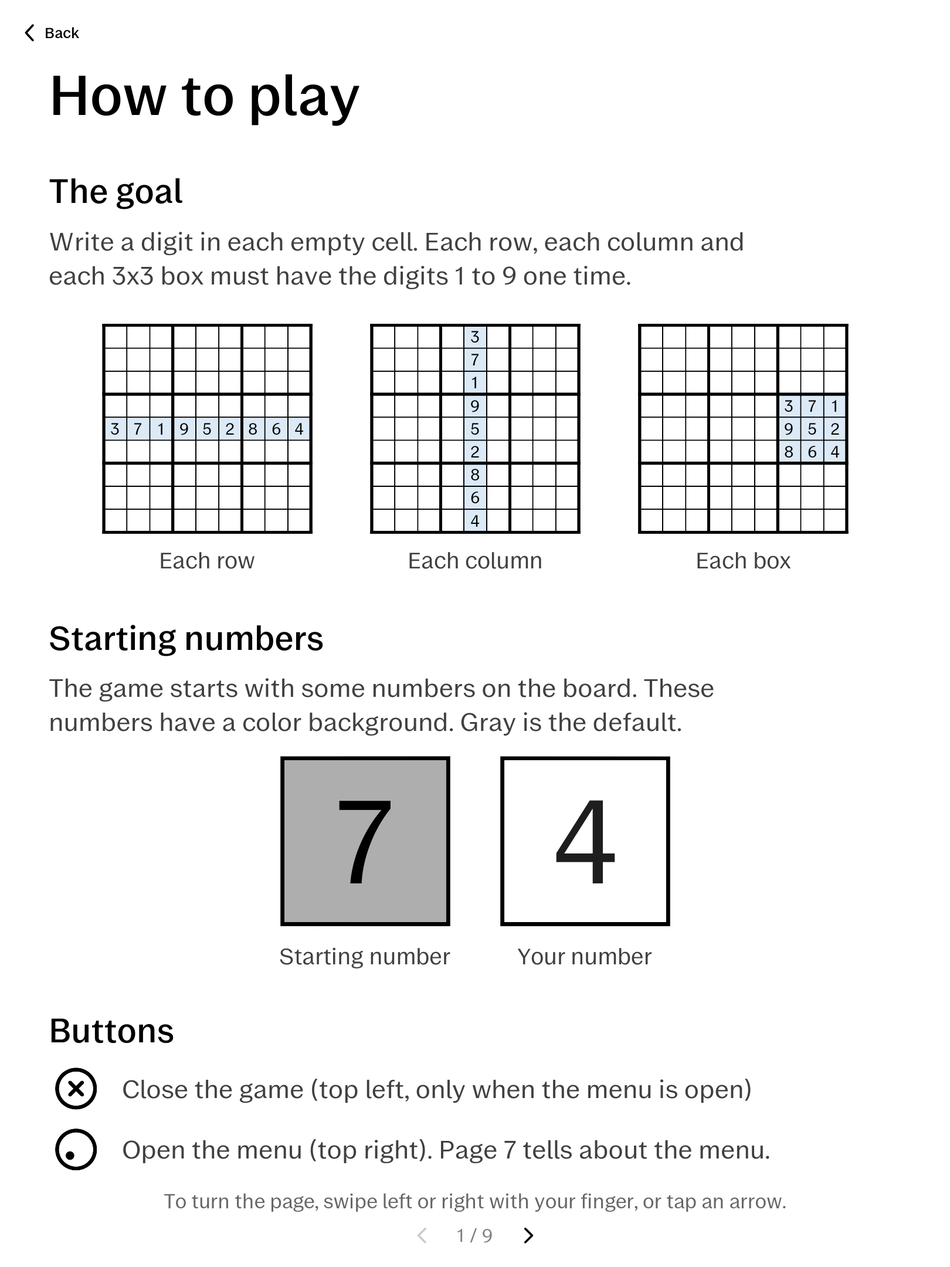
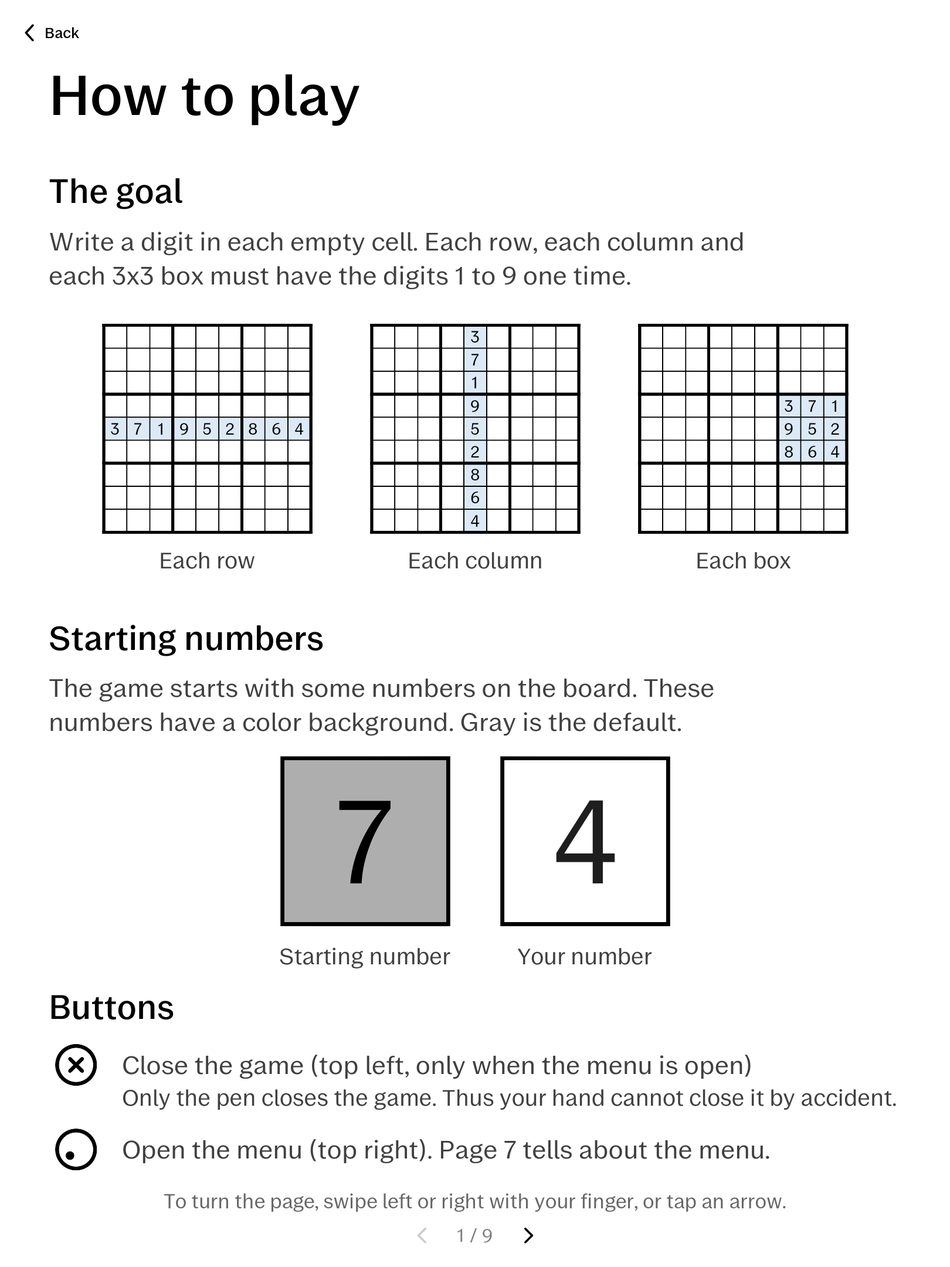
Only allow pen to close the app

Changed region(s): [[0.0309, 0.7755, 0.8025, 0.8995]]

diff --git a/tests/behavior.rs b/tests/behavior.rs
@@ -362,6 +362,9 @@ fn menu_and_panels() {
     assert!(!d.app.quit);
     d.button(Button::Menu);
     d.button(Button::Close);
+    assert!(!d.app.quit, "NAV-6: a finger does not close the app");
+    let (x, y) = button_center(Button::Close);
+    d.pen_tap(x, y);
     assert!(d.app.quit && d.app.game_dirty);
 }
 
@@ -721,8 +724,10 @@ fn a_fast_double_tap_on_back_does_not_close_the_app_or_the_menu() {
                 tap_back(&mut d, pen);
                 if right_handed {
                     assert!(!d.app.quit && d.app.ui.menu == Menu::Closed, "NAV-16: the menu button operates again ({case})");
-                } else {
+                } else if pen {
                     assert!(d.app.quit, "NAV-16: the close button operates again ({case})");
+                } else {
+                    assert!(!d.app.quit, "NAV-6: a finger does not close the app ({case})");
                 }
             }
         }
@@ -754,7 +759,13 @@ fn the_toolbar_ignores_all_buttons_shortly_after_back() {
             assert_eq!((d.app.screen, d.app.ui.menu), (Screen::Game, Menu::Open(None)), "NAV-16 ({case})");
             assert_eq!(board(&d.app.game), board(&game), "NAV-16 ({case})");
             d.wait(50);
-            d.button(b);
+            // Only the pen operates the close button (NAV-6).
+            if b == Button::Close {
+                let (x, y) = button_center(b);
+                d.pen_tap(x, y);
+            } else {
+                d.button(b);
+            }
             let changed = d.app.quit || d.app.screen != Screen::Game || d.app.ui.menu != Menu::Open(None) || board(&d.app.game) != board(&game);
             assert!(changed, "NAV-16: the button operates after the time ({case})");
         }
@@ -1731,7 +1742,7 @@ fn the_release_of_a_control_removes_the_x() {
     // MRK-15, MRK-12: a finger stays on a control while the pen does a refused tap. The release does the
     // action of the control and removes the x. All controls of the toolbar, in all layouts.
     for_each_layout(|case| {
-        for b in [Button::Menu, Button::Colors, Button::Settings, Button::Checkpoints, Button::NewGame, Button::Undo, Button::Redo, Button::Help, Button::Statistics, Button::Close] {
+        for b in [Button::Menu, Button::Colors, Button::Settings, Button::Checkpoints, Button::NewGame, Button::Undo, Button::Redo, Button::Help, Button::Statistics] {
             let case = format!("{case}, control: {b:?}");
             let mut d = Driver::new(121);
             fill_stacks(&mut d);
@@ -1751,9 +1762,50 @@ fn the_release_of_a_control_removes_the_x() {
                 Button::Undo | Button::Redo => board(&d.app.game) != before,
                 Button::Help => d.app.screen == Screen::Manual,
                 Button::Statistics => d.app.screen == Screen::Statistics,
-                Button::Close => d.app.quit,
+                Button::Close => unreachable!("NAV-6: a finger does not operate the close button"),
             };
             assert!(done, "the release does the action of the control ({case})");
+        }
+    });
+}
+
+#[test]
+fn only_the_pen_operates_the_close_button() {
+    // NAV-6, INP-1, INP-15, INP-21, MRK-15: all layouts, with no panel open.
+    for_each_layout(|case| {
+        let mut d = Driver::new(121);
+        fill_stacks(&mut d);
+        let before = control_state(&d);
+
+        // A finger stays on the button while the pen does a refused tap. The release has no action,
+        // thus the x stays.
+        let (x, y) = hold(&mut d, Button::Close);
+        refused_tap(&mut d);
+        d.send(Input::TouchUp { id: 1, x, y });
+        assert_eq!(control_state(&d), before, "NAV-6 ({case})");
+        assert!(d.app.ui.refused.is_some(), "NAV-6: the release has no action ({case})");
+
+        // A new finger press removes the x, and it has no other effect.
+        d.finger_tap(x, y);
+        assert_eq!(d.app.ui.refused, None, "MRK-15 ({case})");
+        assert_eq!(control_state(&d), before, "NAV-6 ({case})");
+
+        // A finger does not read waiting ink, at the press and at the release (INP-21).
+        let cell = free_cell(&d.app, &[1]);
+        d.write_strokes(&digit_ink(cell, 1));
+        assert!(d.app.ui.pending_ink.is_some(), "INP-5 ({case})");
+        d.finger_tap(x, y);
+        assert!(d.app.ui.pending_ink.is_some(), "INP-21 ({case})");
+        assert!(!d.app.quit, "NAV-6 ({case})");
+
+        // The two ends of the pen close the app.
+        for tool in [Tool::Pen, Tool::Eraser] {
+            let mut d = Driver::new(121);
+            fill_stacks(&mut d);
+            d.send(Input::PenDown { x, y, tool });
+            assert!(!d.app.quit, "a control acts at the release ({case})");
+            d.send(Input::PenUp { x, y });
+            assert!(d.app.quit && d.app.game_dirty, "NAV-6: {tool:?} ({case})");
         }
     });
 }
@@ -5043,7 +5095,11 @@ fn a_hand_touch_operates_no_toolbar_button_and_a_touch_at_150_ms_does() {
             let before = control_state(&d);
             d.touch_down_after_lift(150, x, y);
             d.send_at_once(Input::TouchUp { id: 1, x, y });
-            assert_ne!(control_state(&d), before, "INP-20: a touch at 150 ms operates ({case})");
+            if b == Button::Close {
+                assert_eq!(control_state(&d), before, "NAV-6: a finger does not close the app ({case})");
+            } else {
+                assert_ne!(control_state(&d), before, "INP-20: a touch at 150 ms operates ({case})");
+            }
         }
     });
 }
@@ -5653,10 +5709,11 @@ fn a_touch_on_a_complete_game_changes_nothing_and_starts_no_timer() {
     d.send(Input::PenUp { x, y });
     assert!(!d.app.is_writing(), "INP-16: no timer on a complete game");
     assert_eq!(d.app.ui.highlight, None, "HLT-1");
-    let (bx, by) = button_center(Button::Close);
+    let menu = d.app.ui.menu;
+    let (bx, by) = button_center(Button::Menu);
     d.touch_down_after_lift(100, bx, by);
     d.send_at_once(Input::TouchUp { id: 1, x: bx, y: by });
-    assert!(!d.app.quit, "INP-20");
+    assert_eq!(d.app.ui.menu, menu, "INP-20");
     assert_eq!(board(&d.app.game), before, "INP-9");
 }
 

diff --git a/tests/properties.rs b/tests/properties.rs
@@ -610,47 +610,6 @@ fn touch_with_two_fingers_uses_only_the_first() {
     assert!(d.app.ui.menu.is_open());
 }
 
-#[test]
-#[ignore]
-fn coverage_of_states() {
-    use proptest::strategy::ValueTree;
-    use proptest::test_runner::TestRunner;
-    let mut runner = TestRunner::deterministic();
-    let mut seen = std::collections::BTreeMap::<&str, usize>::new();
-    for case in 0..96 {
-        let acts = proptest::collection::vec(act(), 1..90).new_tree(&mut runner).unwrap().current();
-        let mut d = Driver::new(case);
-        for a in &acts {
-            run(&mut d, a);
-            d.app.quit = false;
-            let a = &d.app;
-            let mut mark = |k: &'static str, b: bool| if b { *seen.entry(k).or_default() += 1 };
-            mark("completed", a.game.completed);
-            mark("highlight", a.ui.highlight.is_some());
-            mark("highlight+panel", a.ui.highlight.is_some() && a.ui.menu.panel().is_some());
-            mark("highlight+ink", a.ui.highlight.is_some() && a.ui.pending_ink.is_some());
-            mark("ink", a.ui.pending_ink.is_some());
-            mark("question", a.ui.question.is_some());
-            mark("refused", a.ui.refused.is_some());
-            mark("menu", a.ui.menu.is_open());
-            mark("colors", a.ui.menu.panel() == Some(Panel::Colors));
-            mark("newgame", a.ui.menu.panel() == Some(Panel::NewGame));
-            mark("manual", a.screen == Screen::Manual);
-            mark("manual>1", a.manual_page > 1);
-            mark("analytics", a.screen == Screen::Statistics);
-            mark("list", a.screen == Screen::GamesList);
-            mark("confirm", a.list.confirm.is_some());
-            mark("results", !a.results.is_empty());
-            mark("clash", sudoku::game::cells().any(|c| a.game.is_clashing(c)));
-            mark("redo", !a.game.redo.is_empty());
-            mark("mode!=2", a.game.mode != 2);
-            mark("color!=default", a.settings != Default::default());
-            mark("list page>1", a.list.page > 1);
-        }
-    }
-    println!("{seen:#?}");
-}
-
 /// The screen without the ink (the platform draws the ink in parts while the pen writes).
 fn render_without_ink(app: &mut sudoku::app::App, fonts: &sudoku::font::Fonts) -> tiny_skia::Pixmap {
     let pending = app.ui.pending_ink.take();
@@ -1711,7 +1670,7 @@ fn the_release_of_a_button_that_opens_a_panel_or_a_screen_leaves_no_x() {
     // MRK-15, MRK-12, NAV-11: an open panel and a different screen never show an x. The Menu button
     // also does an action: it closes the menu.
     for (landscape, right_handed) in [(false, false), (false, true), (true, false), (true, true)] {
-        for button in [Button::Menu, Button::Colors, Button::Settings, Button::NewGame, Button::Help, Button::Statistics, Button::Close] {
+        for button in [Button::Menu, Button::Colors, Button::Settings, Button::NewGame, Button::Help, Button::Statistics] {
             let _layout = InLayout::set(landscape, right_handed);
             let mut h = Hands::new(Driver::new(403));
             h.d.button(Button::Menu);
@@ -1728,7 +1687,7 @@ fn the_release_of_a_button_that_opens_a_panel_or_a_screen_leaves_no_x() {
                 Button::Colors | Button::Settings | Button::NewGame => h.d.app.ui.menu.panel().is_some(),
                 Button::Help => h.d.app.screen == Screen::Manual,
                 Button::Statistics => h.d.app.screen == Screen::Statistics,
-                _ => h.d.app.quit,
+                _ => unreachable!("this test does not press {button:?}"),
             };
             assert!(opened, "the release of {button:?} does its action");
             assert_eq!(h.d.app.ui.refused, None, "MRK-15, MRK-12: {button:?}");

diff --git a/src/recognizer.rs b/src/recognizer.rs
@@ -230,8 +230,6 @@ struct Recognizer {
     /// The features of block b, value j, lane l are at (b * DIM + j) * LANES + l. The lanes after the
     /// last example are zero.
     blocks: Vec<f32>,
-    /// Refer to ALPHA.
-    pub alpha: f32,
 }
 
 /// The result of the match.
@@ -282,7 +280,7 @@ impl Recognizer {
                 blocks[(b * DIM + j) * LANES + l] = v;
             }
         }
-        Recognizer { classes, blocks, alpha: ALPHA }
+        Recognizer { classes, blocks }
     }
 
     pub fn read(&self, strokes: &[Stroke]) -> Option<u8> {
@@ -292,7 +290,7 @@ impl Recognizer {
     /// `read` with `threads` ranges of the examples (the same result for each quantity).
     fn read_in(&self, strokes: &[Stroke], threads: usize) -> Option<u8> {
         let m = self.matches_in(strokes, threads)?;
-        (m.digit_distance <= self.alpha * m.other_distance).then_some(m.digit)
+        (m.digit_distance <= ALPHA * m.other_distance).then_some(m.digit)
     }
 
     /// The nearest examples, or None if the ink is not one character (too small, two characters side
@@ -952,7 +950,7 @@ mod tests {
                 blocks[(i / LANES * DIM + j) * LANES + i % LANES] = v;
             }
         }
-        Recognizer { classes: items.iter().map(|i| i.0).collect(), blocks, alpha: ALPHA }
+        Recognizer { classes: items.iter().map(|i| i.0).collect(), blocks }
     }
 
     #[test]
@@ -1013,46 +1011,6 @@ mod tests {
                 assert_eq!((m.digit, m.digit_distance), (s.class, 0.0), "position {position}, {threads} ranges");
                 assert!(m.other_distance > 0.0, "position {position}, {threads} ranges");
             }
-        }
-    }
-
-    #[test]
-    #[ignore]
-    fn per_digit() {
-        let (r, test) = split();
-        let mut table = [[0usize; 11]; 10];
-        for s in test.iter().filter(|s| s.class != 0) {
-            let got = r.read(&place(s)).map(|d| d as usize).unwrap_or(10);
-            table[s.class as usize][got] += 1;
-        }
-        for (d, row) in table.iter().enumerate().skip(1) {
-            let n: usize = row.iter().sum();
-            let misses: Vec<String> = (1..=10)
-                .filter(|&g| g != d && row[g] > 0)
-                .map(|g| format!("{}x{}", row[g], if g == 10 { "?".into() } else { g.to_string() }))
-                .collect();
-            println!("{d}: {}/{n} {}", row[d], misses.join(" "));
-        }
-    }
-
-    #[test]
-    #[ignore]
-    fn tune_alpha() {
-        let (mut r, test) = split();
-        for alpha in [1.2f32, 1.3, 1.4, 1.5, 1.6, 1.8] {
-            r.alpha = alpha;
-            let (mut n, mut ok, mut wrong, mut on, mut rej) = (0, 0, 0, 0, 0);
-            for s in &test {
-                let got = r.read(&place(s));
-                if s.class != 0 {
-                    n += 1;
-                    if got == Some(s.class) { ok += 1 } else if got.is_some() { wrong += 1 }
-                } else {
-                    on += 1;
-                    if got.is_none() { rej += 1 }
-                }
-            }
-            println!("alpha {alpha}: {:.1}% correct, {:.1}% wrong digit, {:.1}% others rejected", 100.0 * ok as f64 / n as f64, 100.0 * wrong as f64 / n as f64, 100.0 * rej as f64 / on as f64);
         }
     }
 

diff --git a/src/app.rs b/src/app.rs
@@ -714,6 +714,10 @@ impl App {
             }
         }
 
+        // A finger does not operate the close button (NAV-6): a hand must not close the app.
+        if button == Some(Button::Close) && tool.is_none() {
+            return Gesture::Ignored;
+        }
         if let Some(b) = button {
             return Gesture::Control(Target::Game(b));
         }

diff --git a/INVARIANTS.md b/INVARIANTS.md
@@ -220,7 +220,7 @@ Terms:
 
 | ID | Rule | Source |
 |---|---|---|
-| INP-1 | Finger touches on the board do not change the game state. The only exceptions are the removal of the "?" (QST-4) and of the x (MRK-15). A finger does not remove a highlight (HLT-7). A finger can operate all items that are not on the board: the menu buttons, the panels, the dialogs and the screen buttons. A hand touch does none of these (INP-20). In the manual and the games list, a horizontal finger swipe can change the page. | R§5.1, R§12, R§13.2, owner decision 2026-11-07 |
+| INP-1 | Finger touches on the board do not change the game state. The only exceptions are the removal of the "?" (QST-4) and of the x (MRK-15). A finger does not remove a highlight (HLT-7). A finger can operate all items that are not on the board: the menu buttons, the panels, the dialogs and the screen buttons. The exception is the close button, which a finger does not operate (NAV-6). A hand touch does none of these (INP-20). In the manual and the games list, a horizontal finger swipe can change the page. | R§5.1, R§12, R§13.2, owner decision 2026-11-07 |
 | INP-2 | A pen touch on the board is a **tap** only if all of its movement stays in one micro-cell. All other pen touches on the board are writing. Each pen touch on the board is one of these: a tap, writing, or the eraser. When the player does not write, a tap does not start the pen area (R§14.4), and the area starts when the pen leaves the micro-cell. While the player writes, INP-24 applies. | R§5.1, R§14.4 (owner decisions 2026-11-02 and 2026-11-07) |
 | INP-3 | A tap on an empty cell adds or removes one mark: the digit of the micro-cell that you tapped. If `auto_hide_on` and a peer has that digit, the tap does not change the game, and the x shows (MRK-7, MRK-10). | R§4.1, R§5.1, R§6.1 |
 | INP-4 | While no panel is open, a tap on a filled cell does not change that cell. It changes only `highlight` (HLT-3, HLT-6), the "?" (QST-4) and the x (MRK-15: the tap never shows an x), and it makes the app read ink that waits in another cell (INP-12). | R§5.1, R§6.2 |
@@ -234,7 +234,7 @@ Terms:
 | INP-12 | Writing belongs to the cell where the pen touch started. A pen touch that starts in a different cell, or a pen press off the board (on a control or on no control), makes the app read the waiting ink immediately, and it stops the writing timer (INP-16). A finger reads it only at the release of a control (INP-21). | R§5.1 (confirmed 2026-10-25), owner decision 2026-11-07 |
 | INP-13 | The eraser removes all of your numbers that it touches in one stroke. Each removal is one change in the undo history. | R§5.1, UND-1 (confirmed 2026-10-25) |
 | INP-14 | A finger swipe is a horizontal movement of 120 px or more, with more horizontal than vertical movement. | R§5.1, R§12, R§13.2 (confirmed 2026-10-25) |
-| INP-15 | A finger press on an item that is not on the board (INP-1: menu buttons, panels, dialogs, screen buttons) operates it while the app is open. The exceptions are a hand touch (INP-20) and a dialog that shows: then only its two buttons operate. If the app does not get the release of a touch, that touch does not stop other presses: the app forgets it when a new press with the same touch id starts, or when a new touch starts and that touch has had no event for 0.15 s. A second finger while the first finger moves or presses (an event less than 0.15 s before) operates no item, but it removes the "?" and the x (QST-4, MRK-15). It does not remove a highlight (HLT-7). | R§9, R§5.1, owner decision 2026-11-07 |
+| INP-15 | A finger press on an item that is not on the board (INP-1: menu buttons, panels, dialogs, screen buttons) operates it while the app is open. The exceptions are the close button (NAV-6), a hand touch (INP-20) and a dialog that shows: then only its two buttons operate. If the app does not get the release of a touch, that touch does not stop other presses: the app forgets it when a new press with the same touch id starts, or when a new touch starts and that touch has had no event for 0.15 s. A second finger while the first finger moves or presses (an event less than 0.15 s before) operates no item, but it removes the "?" and the x (QST-4, MRK-15). It does not remove a highlight (HLT-7). | R§9, R§5.1, owner decision 2026-11-07 |
 | INP-16 | The writing timer (a redraw waits, R§14.4) runs only on the game screen of a game that is not complete. Each stroke on the board starts it again (1 s, equal to the recognition pause of INP-5). A pen press that does not write stops it. A finger press does not stop it (INP-21). | R§5.1, R§14.4 (owner decisions 2026-11-02 and 2026-11-07) |
 | INP-17 | For all classes (the digits and "not 1–9") and all sources, the recognizer stores each example copy exactly two times: one time as written and one time as its full reversal. No example copy has only one direction, and no example copy has two items in one direction. Thus a typeface shape has no separate reversed item. A sample of the database of 60 writers has 2 stored items for "not 1–9" and 18 stored items for a digit. | R§5.1 (owner decision 2026-11-06) |
 | INP-18 | The app does not reverse the ink of the player. For one set of strokes, it calculates the features one time, as written, and it compares them with all stored items (INP-17). | R§5.1 (owner decision 2026-11-06) |
@@ -290,7 +290,7 @@ Terms:
 | NAV-3 | When Manual or Statistics shows Game again, `menu = Open` and `panel = None`. | R§9, R§12, R§13.1 (owner decision 2026-11-02) |
 | NAV-4 | `panel ≠ None ⇒ menu = Open`. Only one panel can be open at a time. | R§9 |
 | NAV-5 | `screen ≠ Game ⇒ menu = Closed, panel = None`. The menu is a part of the game screen. When the game screen shows again, the menu opens (NAV-3). | R§9 |
-| NAV-6 | The close button shows only when `screen = Game` and `menu = Open`. When `panel = None`, a tap on it closes the app after the app saves the game (PER-1). When `panel ≠ None`, a tap on it only closes the panel (NAV-12). | R§3.1, R§9 (owner decision 2026-11-02) |
+| NAV-6 | The close button shows only when `screen = Game` and `menu = Open`. When `panel = None`, a tap of the pen or of its eraser end on it closes the app after the app saves the game (PER-1). A finger never closes the app: a finger press on it, and its release, have no action, and the press only removes the "?" and the x (QST-4, MRK-15). When `panel ≠ None`, a tap of the pen or of a finger on it only closes the panel (NAV-12). | R§3.1, R§9 (owner decision 2026-11-02, owner approval 2026-11-06) |
 | NAV-7 | Icon of the menu button: the dot is at the bottom left only when `menu = Closed`. The dot is at the top left only when `menu = Open`. For a right-handed player the icon is a mirror image (the dot is at the right; NAV-15). | R§3.1 |
 | NAV-8 | The button of a panel is white on black only when that panel is open. The other buttons have their usual appearance. | R§9 |
 | NAV-9 | After Start new game, `menu = Open` and `panel = None`. | R§9, R§11 (owner decision 2026-11-02) |

diff --git a/REQUIREMENTS.md b/REQUIREMENTS.md
@@ -295,7 +295,8 @@ The player selects the four colors in the Cell colors panel ([§10](#10-cell-col
   operates the board. A finger touch removes the "?" and the x at the press, except for a hand touch
   (below). A finger touch does not remove a highlight ([§6.2](#62-highlights); owner approval 2026-11-07).
 - A finger can operate all items that are not on the board: the menu buttons, the panels, the dialogs
-  and the screen buttons (for example "< Back"). The pen can also operate these items.
+  and the screen buttons (for example "< Back"). The pen can also operate these items. The close button
+  is the exception: a finger does not close the app ([§9](#9-the-menu); owner approval 2026-11-06).
 - In the manual and the games list, a finger swipe turns the page. Refer to [§12](#12-manual-help) and
   [§13](#13-statistics). A swipe is a horizontal finger movement of 120 px or more, with more
   horizontal than vertical movement.
@@ -791,14 +792,16 @@ Each button has a slot of 112 px. The icons are 40 px line icons with 3 px strok
   under an x. The release removes only the x, not a "?" in a different cell (this follows from the
   owner approval 2026-11-04).
 - When the menu is open, the **close button** shows at the top left (at the top right for a
-  right-handed player, [§3.1](#31-layout)). When no panel is open, a tap on it closes the app. The
-  app then shows the launcher ([§14.4](#144-launcher)). When a panel is open, a tap on it only closes
-  the panel (owner decision 2026-11-02).
+  right-handed player, [§3.1](#31-layout)). When no panel is open, a tap of the pen or of its eraser
+  end on it closes the app. The app then shows the launcher ([§14.4](#144-launcher)). A finger press on
+  it does not operate it: the press only removes the "?" and the x, as each press does, and the app
+  stays open. Reason: a hand on the screen must not close the app (owner approval 2026-11-06). When a
+  panel is open, a tap of the pen or of a finger on it only closes the panel (owner decision 2026-11-02).
 - When a panel is open, its button is white on a black square. The panel touches the button. The
   pop-up menus of the device do the same.
 - A finger operates the menu buttons, the panels, the dialogs and the screen buttons while the app
-  is open. There are two exceptions. When a dialog shows, only its two buttons operate
-  ([§9.2](#92-updates)). A second finger, while the first finger moves or presses (an event less
+  is open. There are three exceptions. A finger does not close the app with the close button (above).
+  When a dialog shows, only its two buttons operate ([§9.2](#92-updates)). A second finger, while the first finger moves or presses (an event less
   than 0.15 s before), operates no item, but it removes the "?" (owner decision 2026-11-02) and the x
   (owner approval 2026-11-04). It does not remove a highlight (owner approval 2026-11-07).
 - A touch that starts less than 150 ms after a pen lift operates no item, and a finger press does not
@@ -1303,7 +1306,7 @@ stateDiagram-v2
 
 | Page | Image | Content |
 |---|---|---|
-| 1 | [`manual-how-to-play.png`](images/manual-how-to-play.png) | The rules (rows, columns, boxes), starting numbers and your numbers, the close and menu buttons, how to turn the pages. |
+| 1 | [`manual-how-to-play.png`](images/manual-how-to-play.png) | The rules (rows, columns, boxes), starting numbers and your numbers, the close and menu buttons, the note that only the pen closes the game, how to turn the pages. |
 | 2 | [`manual-candidates.png`](images/manual-candidates.png) | Micro-cells and pencil marks: how to add and remove them. |
 | 3 | [`manual-pen.png`](images/manual-pen.png) | How to write and erase a number. |
 | 4 | [`manual-pen-rules.png`](images/manual-pen-rules.png) | Taps, finger touches, one number for each cell, writing with no effect, the "?". |

diff --git a/DECISIONS.md b/DECISIONS.md
@@ -877,3 +877,22 @@ Rejected values and alternatives, 2026-11-07:
 | Source of the pause | Keep it in the manifest | Not selected. |
 
 The older sections stay as a record. Their pause of 0.5 s and their highlight rules are history.
+
+### Owner request: only the pen operates the close button, 2026-11-06
+
+The owner asked: "only allow the app close button to be triggered by the pen".
+
+The owner examined the dev build `dev/close-pen-only` on the tablet and approved it: a finger on the close
+button does not close the app, the pen closes the app, and a finger on the close button with an open panel
+only closes the panel.
+
+Details that follow from the existing rules, not examined one by one on the tablet:
+
+- The eraser end is a part of the pen, thus it also closes the app.
+- A finger press on the close button removes the "?" and the x, as each press does (QST-4, MRK-15).
+- The close button of the color picker (`Sudoku (colors)`) does not change. It is a separate development tool.
+
+The owner then asked: "yes please update the manual. include a note that states that you can only close it with
+the pen so that resting your hand on the device doesn't close it by accident". Page 1 of the manual now has the
+note "Only the pen closes the game. Thus your hand cannot close it by accident." below the close button. The owner
+examined the page on the tablet, in portrait and in landscape, and approved it.

diff --git a/images/INDEX.md b/images/INDEX.md
@@ -97,7 +97,7 @@ next page, next to the page number.
 
 | Page | Image | Content |
 |---|---|---|
-| 1 | `manual-how-to-play.png` | The rules, starting numbers and your numbers, the close button and the menu button. |
+| 1 | `manual-how-to-play.png` | The rules, starting numbers and your numbers, the close button with the note that only the pen closes the game, and the menu button. |
 | 2 | `manual-candidates.png` | Pencil marks: how to tap micro-cells to add and remove them. |
 | 3 | `manual-pen.png` | How to write a number (the app reads it and shows a typed number) and how to erase it (the pencil marks show again). |
 | 4 | `manual-pen-rules.png` | What a tap is. Finger touches have no effect. One number for each cell. Writing that starts on a number shows no ink. Writing that the app cannot read shows **?**. |

diff --git a/README.md b/README.md
@@ -17,7 +17,8 @@ paper, and it does the work that paper cannot do.
   for a moment. If you turn the pencil mark hiding off, the tap adds or removes the mark, and no x
   shows.
 - Rub one of your numbers with the eraser end of the pen to remove it.
-- Your finger operates the menu and the panels. A finger touch on the board does not add or remove
+- Your finger operates the menu and the panels. Only the pen operates the close button, thus your
+  hand cannot close the app. A finger touch on the board does not add or remove
   a number or a pencil mark.
 
 **Helpers**
